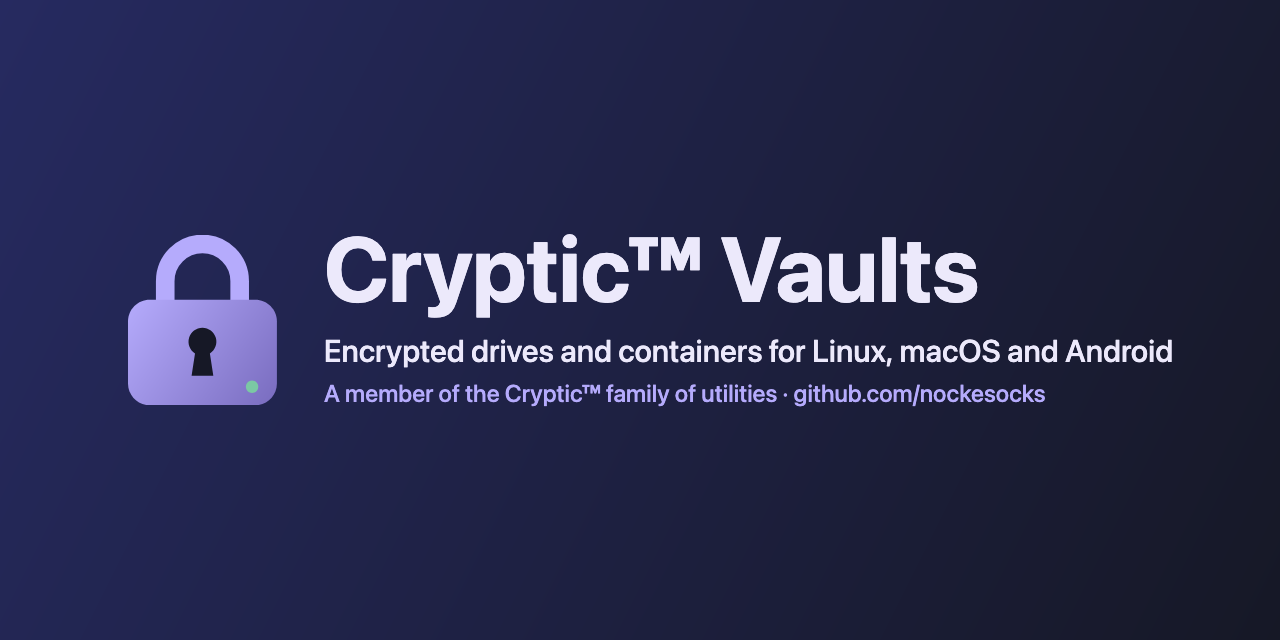
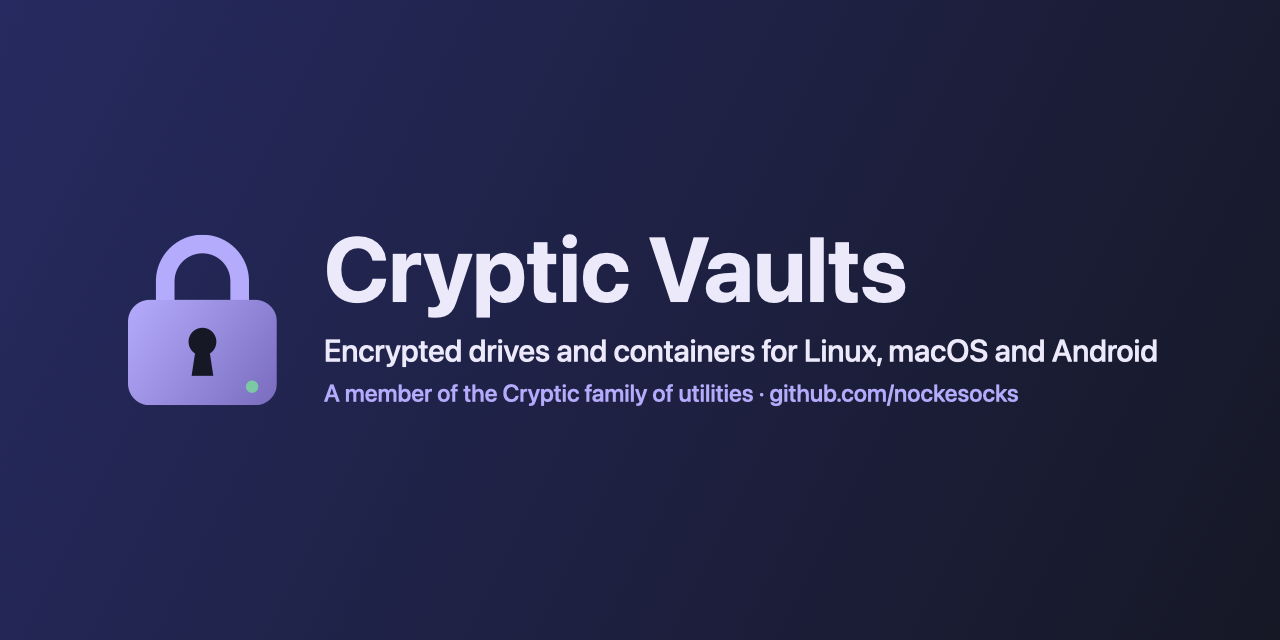
Visual enhancements

Changed region(s): [[0.25, 0.5312, 0.9375, 0.6562], [0.4688, 0.375, 0.7812, 0.4688]]

diff --git a/cryptic_vaults.py b/cryptic_vaults.py
@@ -117,7 +117,7 @@ FOREIGN_OWNER_FS = {"vfat", "exfat", "ntfs", "ntfs3"}  # need uid=/gid= mount op
 VERSION = "0.1.0"
 RELEASES = "https://github.com/nockesocks/cryptic-vaults/releases/latest"
 ANDROID = "https://github.com/nockesocks/cryptic-vaults-android"
-DEV_GITHUB = "https://github.com/nockesocks"  # where every Cryptic app lives
+DEV_GITHUB = "https://github.com/nockesocks?tab=repositories&q=cryptic"  # the Cryptic apps only (a Cryptic org page later)
 TIP_PAGE = "https://nockesocks.github.io/tip/"  # the page picks Lightning, on-chain or Monero; app= names the app
 
 # The Cryptic Vaults padlock, drawn from the app icon in half blocks
@@ -1179,7 +1179,7 @@ class LogScreen(ModalScreen):
 ABOUT_APP = """\
 [b]Security is a [i $accent]right[/], not a privilege.[/]
 
-Linux can encrypt a drive, if you remember cryptsetup's commands, and a Mac can't open those drives at all without paid add-ons. There was no friendly, free way to manage industry standard drive and container encryption on the desktop, and the few tools that tried were jank or lived behind a paywall. The developer rejected these options for both reasons, and Cryptic™ Vaults was born.
+Linux can encrypt a drive, if you remember cryptsetup's commands, and a Mac can't open those drives at all without paid add-ons. There was no friendly, free way to manage industry standard drive and container encryption on the desktop, and the few tools that tried were jank or lived behind a paywall. The developer rejected these options for both reasons, and Cryptic Vaults was born.
 
 [b]Built for privacy[/]
   [$primary]·[/] Zero telemetry, analytics or ads.
@@ -1192,13 +1192,13 @@ Linux can encrypt a drive, if you remember cryptsetup's commands, and a Mac can'
 No paywall, no gotcha, no upsell, no monetizing your data. Free forever, because it's the right thing to do. If you don't think that's fair, you can always buy me a coffee! 😊"""
 
 FAMILY = """\
-Cryptic™ Vaults is a member of the Cryptic™ family of utilities:
+Cryptic Vaults is a member of the Cryptic family of utilities:
   [$primary]·[/] [b]Cryptic Vaults for Android[/]: the same LUKS2 drives and containers on your phone.
   [$primary]·[/] [b]Cryptic Pass[/]: a password manager, coming soon.
-See all Cryptic™ apps: [b]github.com/nockesocks[/]"""
+See all Cryptic apps: [b]github.com/nockesocks[/]"""
 
 ABOUT = """\
-[b $primary]Cryptic™ Vaults[/]  [$foreground 60%]·  designed by[/] [b]nockesocks[/]  [$foreground 60%]·  written by[/] [b]Claude[/]
+[b $primary]Cryptic Vaults[/]  [$foreground 60%]·  designed by[/] [b]nockesocks[/]  [$foreground 60%]·  written by[/] [b]Claude[/]
 
 Most of what you see here came from someone saying [i]"no — more like this."[/]
 The tree, the purple, the back arrow, the second chance at a passphrase:
@@ -1314,7 +1314,7 @@ class SettingsScreen(Screen):
                 with Vertical(id="s-name"):
                     yield Static(f"[b]Cryptic Vaults[/]  [$foreground 60%]{VERSION}[/]")
                     yield Static("LUKS2 drive & container encryption for Linux and macOS", classes="hint")
-                    yield Static("A member of the Cryptic™ family of utilities", classes="hint")
+                    yield Static("A member of the Cryptic family of utilities", classes="hint")
                     yield Button("Check for updates", id="s-updates", classes="primary")
             yield Static("Opens the latest release on GitHub in your browser. If its version is newer than "
                          f"{VERSION}, update with the same install command you used.", classes="hint wide")
@@ -1353,7 +1353,7 @@ class SettingsScreen(Screen):
             yield Static("The Cryptic™ family", classes="section")
             yield Static(FAMILY, classes="about")
             with Horizontal(classes="buttons"):
-                yield Button("All Cryptic™ apps", id="s-family", classes="primary")
+                yield Button("All Cryptic apps", id="s-family", classes="primary")
                 yield Button("Cryptic Vaults for Android", id="s-android")
             yield Static("Buy the dev a coffee!", classes="section")
             yield Static("Opens the tip page in your browser: Bitcoin Lightning, Bitcoin on-chain or Monero. "
@@ -1530,7 +1530,7 @@ COLUMNS = ("Device", "Name", "Size", "Encrypted", "Encryption", "Filesystem", "S
 
 
 class CrypticVaults(App):
-    TITLE = "Cryptic™ Vaults"
+    TITLE = "Cryptic Vaults"
     CSS = CSS
     BINDINGS = [
         Binding("space", "details", "Details"),

diff --git a/README.md b/README.md
@@ -2,7 +2,7 @@
 
 <img src="assets/icon.svg" width="112" alt="Cryptic Vaults icon">
 
-# Cryptic™ Vaults for Linux and macOS
+# Cryptic Vaults for Linux and macOS
 
 *LUKS2 encrypted drives from your terminal*
 
@@ -206,13 +206,13 @@ Open its details and press **Release to Mac**, and switch **Auto-load** off so i
 
 ## Trademark
 
-Cryptic™ and the Cryptic padlock are trademarks of the developer. The license covers the code, not the name or the logo: a fork or a modified version you distribute needs its own name and icon.
+Cryptic and the Cryptic padlock are trademarks of the developer. The license covers the code, not the name or the logo: a fork or a modified version you distribute needs its own name and icon.
 
-## The Cryptic™ family
+## The Cryptic family
 
-Cryptic Vaults is a member of the Cryptic™ family of utilities. Check out our other apps:
+Cryptic Vaults is a member of the Cryptic family of utilities. Check out our other apps:
 
 - [Cryptic Vaults for Android](https://github.com/nockesocks/cryptic-vaults-android): the same LUKS2 drives and containers on your phone.
 - Cryptic Pass: a password manager. Coming soon.
 
-See all Cryptic™ apps on [github.com/nockesocks](https://github.com/nockesocks).
+See all Cryptic apps on [github.com/nockesocks](https://github.com/nockesocks?tab=repositories&q=cryptic).
